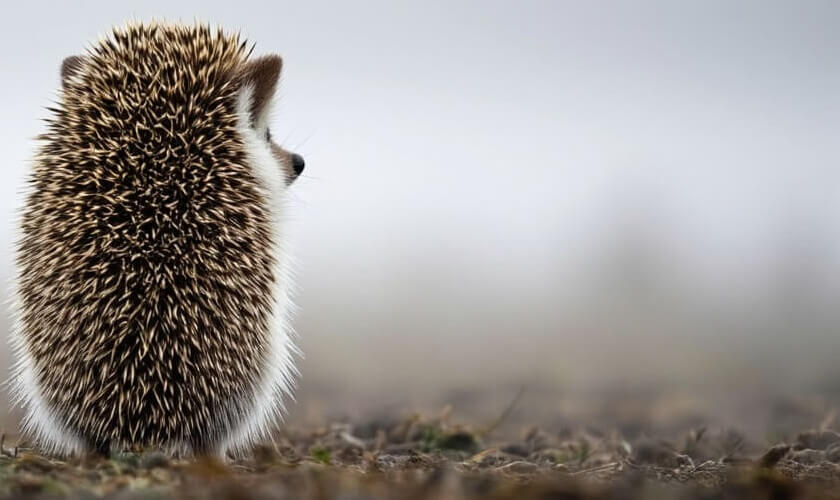
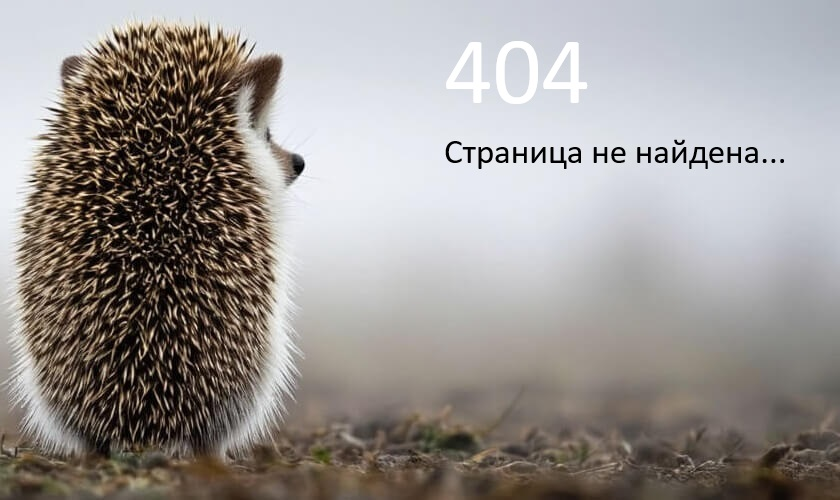
Предварительная вёрстка страниц логина, регистрации, профиля пользователя, Ошибки404 и Ошибки 500.

Changed region(s): [[0.5262, 0.06, 0.7119, 0.21], [0.5262, 0.27, 0.9286, 0.33]]

diff --git a/src/style.css b/src/style.css
@@ -14,6 +14,13 @@
   -moz-osx-font-smoothing: grayscale;
 }
 
+#app {
+  max-width: 1280px;
+  margin: 0 auto;
+  padding: 2rem;
+  text-align: center;
+}
+
 a {
   font-weight: 500;
   color: #535bf2;
@@ -41,50 +48,120 @@ h1 {
   position: absolute;
 }
 
-.login {
-  position: absolute;
-  top: 0;
-}
-
 .input_base {
-  display: block;
+  height: 40px;
   width: 100%;
   margin: 10px;
+  border: none;
+  outline: none;
+  border-bottom: 1px solid #000;
+  transition: border-color 0.5s;
 }
-
-#app {
-  max-width: 1280px;
-  margin: 0 auto;
-  padding: 2rem;
-  text-align: center;
+.input_base:focus {
+  border-bottom: 1px solid #c2d9ff;
+  box-shadow: 0 1px 0 0 #c2d9ff;
 }
 
 .button_base {
   border-radius: 8px;
   border: 1px solid transparent;
-  padding: 0.6em 1.2em;
+  padding: 0.4em 1.1em;
+  margin: 0.2em 0.2em;
   font-size: 1em;
   font-weight: 500;
   font-family: inherit;
-  background-color: #a6c7ff;
+  background-color: #c2d9ff;
   cursor: pointer;
-  transition: border-color 0.25s;
+  transition: border-color 0.25s, transform 0.1s ease-in-out;
+  box-shadow: 0 2px 5px 0 rgba(0,0,0,0.16), 0 2px 10px 0 rgba(0,0,0,0.12);
 }
 .button_base:hover {
   border-color: #000000;
 }
+.button_base:active {
+  transform: scale(0.95);
+}
 
-.button:focus,
-.button:focus-visible {
-  outline: 4px auto -webkit-focus-ring-color;
+.avatar_base {
+  position: relative;
+  display: inline-block;
+}
+.avatar_base__image {
+  width: 100px;
+  height: 100px;
+  border-radius: 50%;
+  object-fit: cover;
+}
+
+.profile {
+  height: 600px;
+  min-width: 460px;
+}
+
+.error404__image {
+  background-image: linear-gradient(rgba(0, 0, 0, 0.4), rgba(0, 0, 0, 0.4)), var('./resources/404_image.jpg');
+  background-repeat: no-repeat;
+  background-size: 100%, cover;
 }
 
 /* БЭM стили */
-
-/* Форма логина */
-.login {
-  width: 500px;
-  height: 60px;
+.login, .registration, .profile, .error404, .error500 {
+  position: absolute;
+  top: 0;
+  width: 33%;
+  margin: 0 33%;
   box-shadow: 0 2px 5px 0 rgba(0,0,0,0.16), 0 2px 10px 0 rgba(0,0,0,0.12);
   background-color: #ffffff;
+  display: flex;
+  justify-content: center;
+  align-items: center;
+  flex-direction: column;
+}
+
+.login__form, .registration__form, .change_password__form, .change_profile__form, .avatar__form {
+  display: flex;
+  flex-direction: column;
+  width: 90%;
+}
+.login__submit, .registration__submit, .change_password__submit, .change_profile__submit {
+  display: flex;
+  justify-content: center;
+  margin: 15px 0 0 0;
+}
+
+.registration__inputs_row, .change_password__inputs_row, .change_profile__inputs_row {
+  display: flex;
+  flex-direction: row;
+  justify-content: space-between;
+}
+
+.divider {
+  width: 99%;
+  margin: 15px 0;
+  border-color: #fdfdfd;
+}
+
+/* Блок логина */
+.login {
+  height: 290px;
+}
+
+/* Блок регистрации */
+.registration {
+  height: 350px;
+  min-width: 450px;
+}
+
+/* Блок смены пароля */
+.change_password__submit {
+  min-width: 170px;
+  margin: 10px;
+}
+
+/* Блок смены аватара */
+.avatar__form {
+  align-items: center;
+}
+.avatar__input {
+  display: none;
 }

diff --git a/src/pages/profile.html b/src/pages/profile.html
@@ -3,9 +3,46 @@
 <head>
     <meta charset="UTF-8">
     <link rel="stylesheet" href="../style.css">
-    <title>Title</title>
+    <title>Профиль</title>
 </head>
 <body>
-
+    <div class="profile">
+        <div class="avatar__form">
+            {{> Avatar alt_text="Картинка профиля" src="../resources/404_image.jpg"}}
+            {{> Button text="Выбрать аватар"}} <!--в дальнейшем нужно будет связать кнопку с инпутом-->
+            <input type="file" name="avatar" accept="image/*" class="avatar__input">
+        </div>
+        <hr class="divider">
+        <form action="/user/password" method="post" class="change_password__form">
+            <div class="change_password__inputs_row">
+                {{> FormInput type="password" name="newPassword" placeholder="Пароль"}}
+                {{> FormInput type="password" name="re-newPassword" placeholder="Повторите пароль"}}
+            </div>
+            <div class="change_password__inputs_row">
+                {{> FormInput type="password" name="oldPassword" placeholder="Старый пароль"}}
+                <div class="change_password__submit">
+                    {{> Button text="Сменить пароль"}}
+                </div>
+            </div>
+        </form>
+        <hr class="divider">
+        <form action="/user/profile" method="post" class="change_profile__form">
+            <div class="change_profile__inputs_row">
+                {{> FormInput type="text" name="login" placeholder="Логин"}}
+                {{> FormInput type="text" name="display_name" placeholder="Отображаемое имя"}}
+            </div>
+            <div class="change_profile__inputs_row">
+                {{> FormInput type="text" name="first_name" placeholder="Имя"}}
+                {{> FormInput type="text" name="second_name" placeholder="Фамилия"}}
+            </div>
+            <div class="change_profile__inputs_row">
+                {{> FormInput type="email" name="email" placeholder="Электронный адрес"}}
+                {{> FormInput type="text" name="phone" placeholder="Телефон"}}
+            </div>
+            <div class="change_profile__submit">
+                {{> Button text="Сохранить"}}
+            </div>
+        </form>
+    </div>
 </body>
 </html>

diff --git a/src/pages/registration.html b/src/pages/registration.html
@@ -3,9 +3,30 @@
 <head>
     <meta charset="UTF-8">
     <link rel="stylesheet" href="../style.css">
-    <title>Title</title>
+    <title>Регистрация</title>
 </head>
 <body>
-
+    <div class="registration">
+        <form action="/auth/signup" method="post" class="registration__form">
+            <div class="registration__inputs_row">
+                {{> FormInput type="text" name="login" placeholder="Логин"}}
+            </div>
+            <div class="registration__inputs_row">
+                {{> FormInput type="password" name="password" placeholder="Пароль"}}
+                {{> FormInput type="password" name="re-password" placeholder="Повторите пароль"}}
+            </div>
+            <div class="registration__inputs_row">
+                {{> FormInput type="text" name="first_name" placeholder="Имя"}}
+                {{> FormInput type="text" name="second_name" placeholder="Фамилия"}}
+            </div>
+            <div class="registration__inputs_row">
+                {{> FormInput type="email" name="email" placeholder="Электронный адрес"}}
+                {{> FormInput type="text" name="phone" placeholder="Телефон"}}
+            </div>
+            <div class="registration__submit">
+                {{> Button text="Зарегистрироваться"}}
+            </div>
+        </form>
+    </div>
 </body>
 </html>

diff --git a/src/pages/login.html b/src/pages/login.html
@@ -7,17 +7,16 @@
 </head>
 <body>
     <div class="login">
-        <form action="/login" method="post">
-            <div class="login">
-                {{> FormInput type="text" name="login" placeholder="Логин"}}
-                {{> FormInput type="password" name="password" placeholder="Пароль"}}
-            </div>
-            <div>
+        <form action="/auth/signin" method="post" class="login__form">
+            {{> FormInput type="text" name="login" placeholder="Логин"}}
+            {{> FormInput type="password" name="password" placeholder="Пароль"}}
+            <div class="login__submit">
                 {{> Button text="Войти"}}
             </div>
         </form>
+        <hr class="divider">
         <div>
-            {{> Button text="Зарегистрироваться"}}
+            {{> Button text="Зарегистрироваться" classes="login__registration_button"}}
         </div>
     </div>
 </body>

diff --git a/src/pages/404_error.html b/src/pages/404_error.html
@@ -3,10 +3,11 @@
 <head>
     <meta charset="UTF-8">
     <link rel="stylesheet" href="../style.css">
-    <title>Title</title>
+    <title>404</title>
 </head>
 <body>
-{{> FormInput type="text" name="login" placeholder="Логин"}}
-{{> FormInput type="text" name="login" placeholder="Логин"}}
+    <div class="error404">
+        <img src="../resources/404_image.jpg" alt="404 - Страница не найдена">
+    </div>
 </body>
 </html>

diff --git a/src/pages/500_error.html b/src/pages/500_error.html
@@ -3,9 +3,11 @@
 <head>
     <meta charset="UTF-8">
     <link rel="stylesheet" href="../style.css">
-    <title>Title</title>
+    <title>500</title>
 </head>
 <body>
-
+    <div class="error500">
+        <img src="../resources/500_image.jpg" alt="500 - Сломалось. Работаем над исправлением.">
+    </div>
 </body>
 </html>

diff --git a/index.html b/index.html
@@ -3,8 +3,7 @@
   <head>
     <meta charset="UTF-8" />
     <link rel="stylesheet" href="src/style.css">
-    <meta name="viewport" content="width=device-width, initial-scale=1.0" />
-    <title>Vite App</title>
+    <title>Навигация</title>
   </head>
   <body>
     <nav class="navbar">
